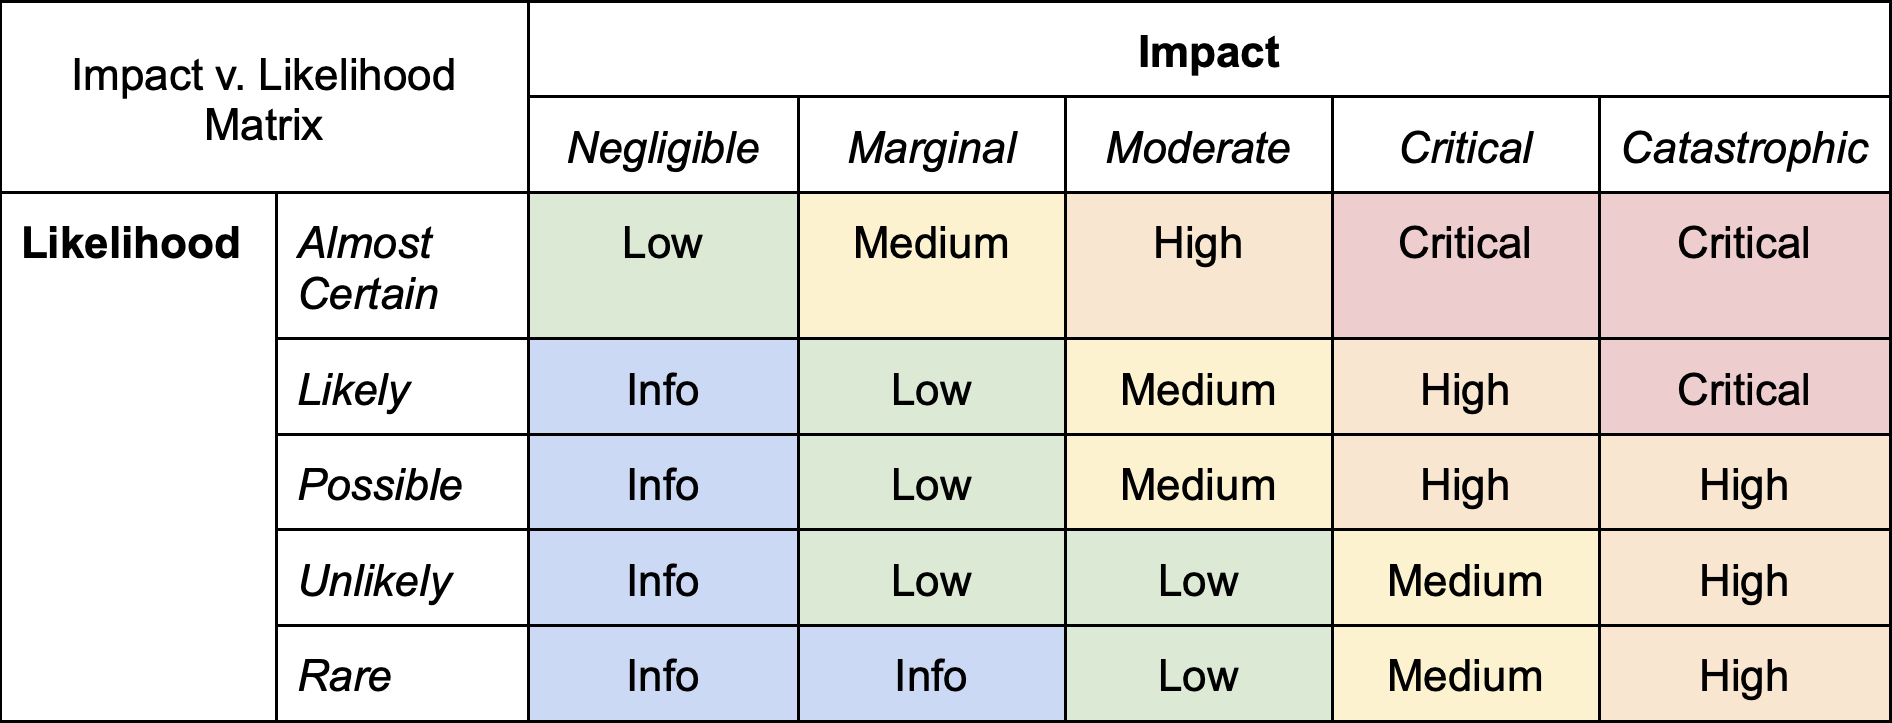
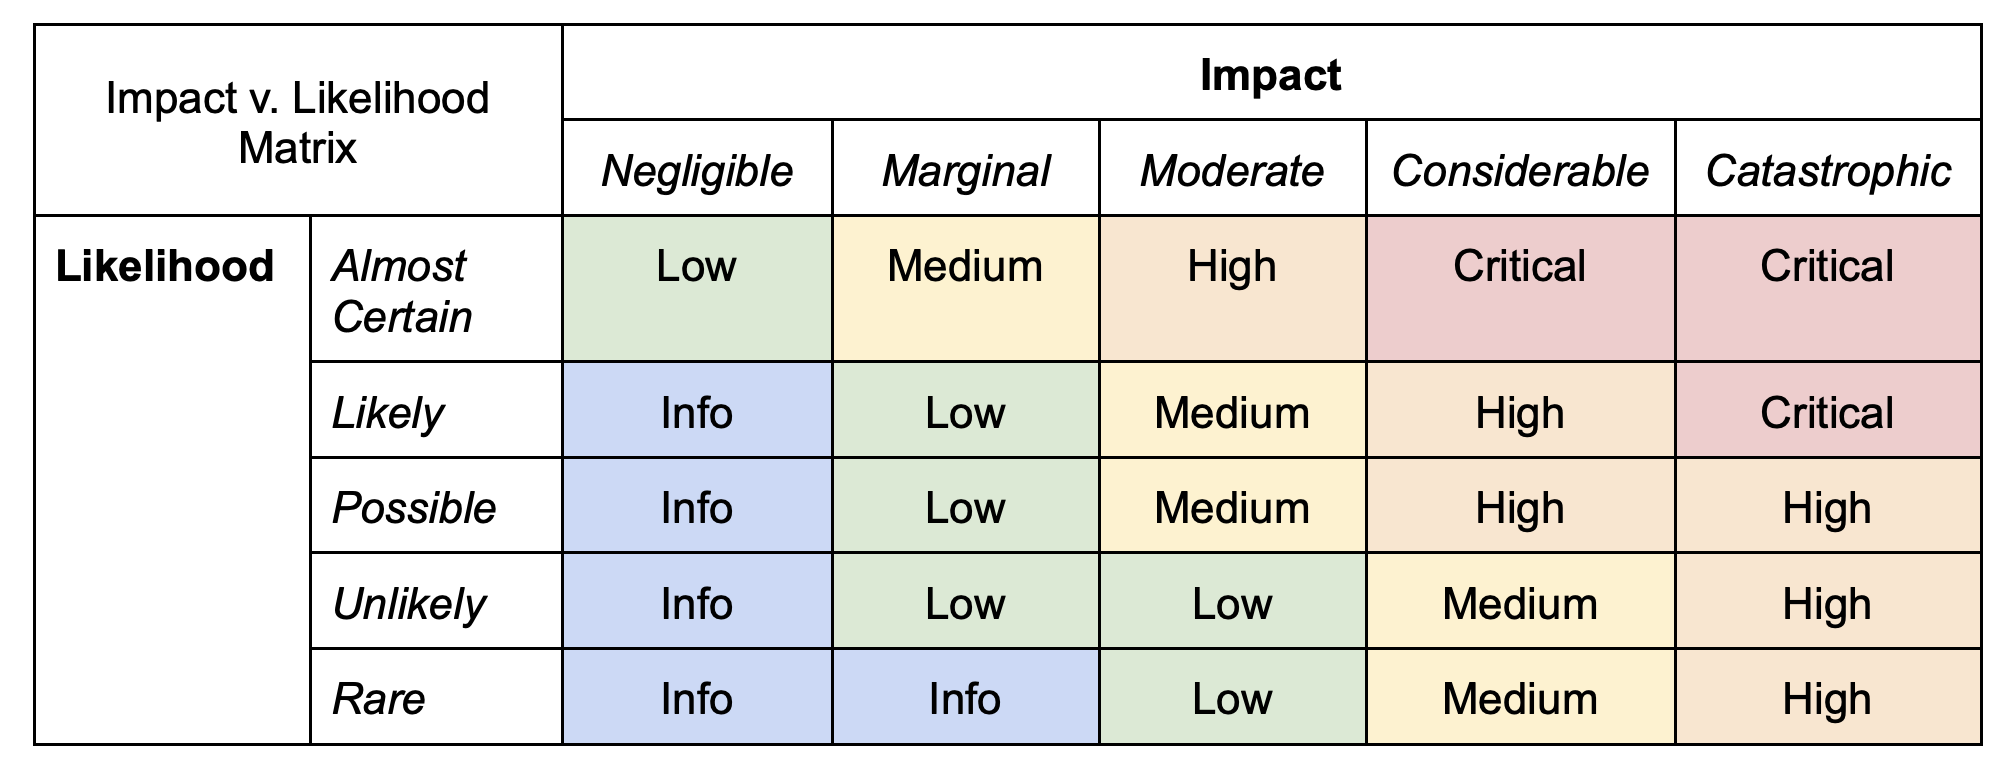
ACMv1.2

diff --git a/resources/CLASSIFICATION_MATRIX.md b/resources/CLASSIFICATION_MATRIX.md
@@ -1,6 +1,6 @@
 # Interchain Stack Severity Classification Framework
 
-**Version**: ACMv1.1
+**Version**: ACMv1.2
 
 ## Criticality Matrix
 
@@ -93,7 +93,7 @@ Investing in mechanisms, including a circuit breaker for specific APIs, may redu
 
 - High
 
-  - Possible likelihood, Critical impact
+  - Possible likelihood, Considerable impact
   - Somewhat cross-chain impact, with consequences that are difficult to recover from and likely to require state modification. These consequences could include non-determinism that results in a trivial chain halt or bugs that undermine the economic model of the Interchain Stack.
   - Examples include:
     - [Pigeonfall](https://github.com/cosmos/ibc-apps/security/advisories/GHSA-q7m9-jcqg-g9pq): Packet Forward Middleware
@@ -135,5 +135,9 @@ If you are building on the Interchain Stack and want to ensure that your team is
 If you are interested in receiving security advisories about vulnerabilities discovered in the Interchain Stack, sign up for the security email distribution list [here](https://interchaincirt.org/signup).
 
 If you are a chain operator and you want to verify if Emergency Security Coordination for an Interchain Stack component is taking place, please reach out to our official channel by emailing [security@interchain.io](mailto:security@interchain.io). Though our team cannot make public announcements about private security coordination activities, we can privately confirm if any emergency coordination is actively taking place.
+
+### Changelog
+
+- ACMv1.2: Change "Critical" imapct to "Considerable" to avoid confusion with Severity rating. The impact captured before and after this change is the same.
 
 [Security Classification Matrix](https://github.com/interchainio/security/blob/main/resources/CLASSIFICATION_MATRIX.md) © 2024 by Amulet is licensed under [CC BY-NC-SA 4.0](https://creativecommons.org/licenses/by-nc-sa/4.0/?ref=chooser-v1)
